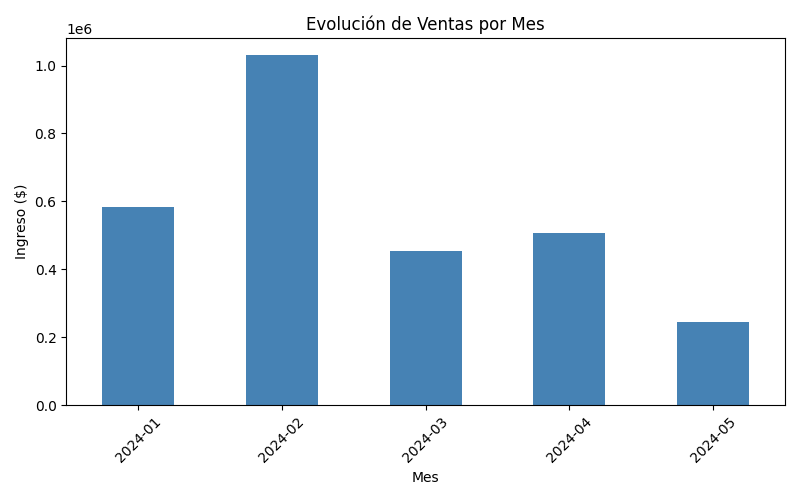
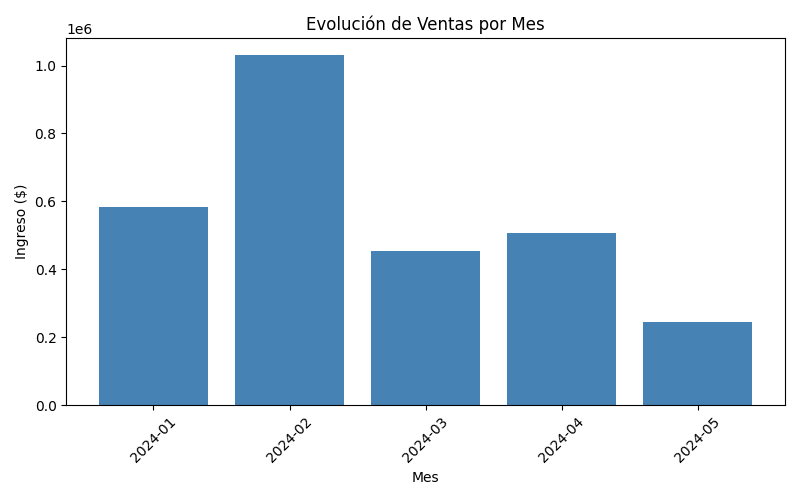
SCRUM-2: Reescribir script usando estructuras basicas de Python sin dependencias externas

diff --git a/scripts/analisis_ventas.py b/scripts/analisis_ventas.py
@@ -2,46 +2,80 @@
 # ==============================================================
 # Script de Análisis de Ventas
 # Autor: Camila Tosti (Rol: Paco - P2)
-# Descripción: Analiza el dataset de ventas para calcular
-# indicadores clave y generar visualizaciones.
+# Descripción: Analiza el dataset de ventas usando solo
+# estructuras básicas de Python (listas, diccionarios, csv).
 # ==============================================================
 
-import pandas as pd
+import csv
 import matplotlib.pyplot as plt
 
 # --- CARGA DE DATOS ---
-# Usamos ruta relativa para garantizar reproducibilidad en cualquier entorno
-df = pd.read_csv("datos/ventas.csv")
 
-# --- INDICADORES ---
-# Calculamos el ingreso total por fila (precio x cantidad)
-df["ingreso"] = df["cantidad"] * df["precio"]
+ventas = []
+with open("datos/ventas.csv", "r") as archivo:
+    lector = csv.DictReader(archivo)
+    for fila in lector:
+        ventas.append({
+            "producto": fila["producto"],
+            "cantidad": int(fila["cantidad"]),
+            "precio": int(fila["precio"]),
+            "fecha": fila["fecha"]
+        })
 
-# Ventas totales globales
-total_ventas = df["ingreso"].sum()
-print(f"Ventas totales: ${total_ventas:,.0f}")
+# --- INDICADOR 1: VENTAS TOTALES ---
 
-# Producto más vendido (por cantidad)
-mas_vendido = df.groupby("producto")["cantidad"].sum().idxmax()
-print(f"Producto más vendido: {mas_vendido}")
+total_ventas = 0
+for venta in ventas:
+    total_ventas = total_ventas + (venta["cantidad"] * venta["precio"])
 
-# Ventas por mes
-df["fecha"] = pd.to_datetime(df["fecha"])
-df["mes"] = df["fecha"].dt.to_period("M")
-ventas_por_mes = df.groupby("mes")["ingreso"].sum()
+print("Ventas totales: $" + str(total_ventas))
+
+# --- INDICADOR 2: PRODUCTO MÁS VENDIDO ---
+
+cantidades_por_producto = {}
+for venta in ventas:
+    producto = venta["producto"]
+    if producto in cantidades_por_producto:
+        cantidades_por_producto[producto] = cantidades_por_producto[producto] + venta["cantidad"]
+    else:
+        cantidades_por_producto[producto] = venta["cantidad"]
+
+producto_mas_vendido = ""
+mayor_cantidad = 0
+for producto, cantidad in cantidades_por_producto.items():
+    if cantidad > mayor_cantidad:
+        mayor_cantidad = cantidad
+        producto_mas_vendido = producto
+
+print("Producto más vendido: " + producto_mas_vendido + " (" + str(mayor_cantidad) + " unidades)")
+
+# --- INDICADOR 3: VENTAS POR MES ---
+
+ingresos_por_mes = {}
+for venta in ventas:
+    mes = venta["fecha"][:7]
+    ingreso = venta["cantidad"] * venta["precio"]
+    if mes in ingresos_por_mes:
+        ingresos_por_mes[mes] = ingresos_por_mes[mes] + ingreso
+    else:
+        ingresos_por_mes[mes] = ingreso
+
 print("\nVentas por mes:")
-print(ventas_por_mes)
+for mes, ingreso in ingresos_por_mes.items():
+    print("  " + mes + ": $" + str(ingreso))
 
 # --- GRÁFICO ---
-# Graficamos la evolución de ventas mensuales para visualizar tendencias
-ventas_por_mes.plot(kind="bar", color="steelblue", figsize=(8,5))
+meses = list(ingresos_por_mes.keys())
+ingresos = list(ingresos_por_mes.values())
+
+plt.figure(figsize=(8, 5))
+plt.bar(meses, ingresos, color="steelblue")
 plt.title("Evolución de Ventas por Mes")
 plt.xlabel("Mes")
 plt.ylabel("Ingreso ($)")
 plt.xticks(rotation=45)
 plt.tight_layout()
 
-# Guardamos el gráfico en /resultados
 plt.savefig("resultados/grafico_ventas.png")
 plt.show()
 print("\nGráfico guardado en resultados/grafico_ventas.png")
